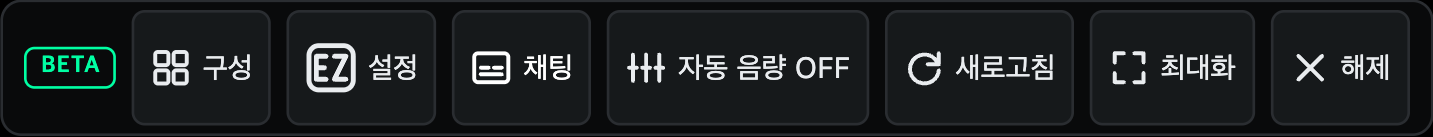
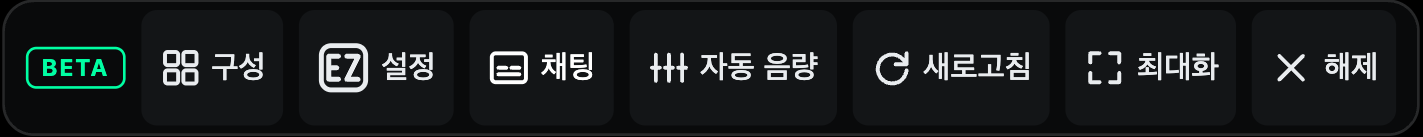
style: unify extension surfaces and interaction states

diff --git a/src/ui/Sheet.tsx b/src/ui/Sheet.tsx
@@ -18,7 +18,7 @@
 
 import { useEffect, useRef, type ReactNode } from 'react';
 import { BETA_BADGE_TEXT, OURS } from '../constants/class';
-import { BG, BORDER, FG, RADIUS, ACCENT, FONT_FAMILY } from './tokens';
+import { BG, BORDER, FG, RADIUS, ACCENT, FONT_FAMILY, UI_STATE } from './tokens';
 import { CloseIcon } from './icons';
 
 export const SHEET_MAX_W = 920;
@@ -181,9 +181,9 @@ export const SHEET_CSS = `
   display: flex;
   flex-direction: column;
   background: ${BG.floating};
-  border: 1px solid ${BORDER.subtle};
-  border-radius: ${RADIUS.md};
-  box-shadow: 0 12px 40px ${BG.scrim};
+  border: 1px solid ${UI_STATE.border};
+  border-radius: ${RADIUS.lg};
+  box-shadow: 0 16px 48px ${BG.scrim};
   overflow: hidden;
 }
 /*
@@ -307,7 +307,7 @@ export const SHEET_CSS = `
   color: ${FG.body};
   cursor: pointer;
 }
-.cm-sheet__btn--primary { border-color: ${ACCENT}; color: ${ACCENT}; }
+.cm-sheet__btn--primary { border-color: ${UI_STATE.selectedBorder}; background: ${UI_STATE.selected}; color: ${ACCENT}; }
 .cm-sheet__btn:disabled { opacity: 0.35; cursor: default; }
 .cm-sheet__note { margin: 4px 0 0; font-size: 11px; color: ${FG.muted}; }
 .cm-sheet__warn { margin: 4px 0 0; font-size: 11px; color: #ffb454; }
@@ -317,6 +317,24 @@ export const SHEET_CSS = `
   justify-content: space-between;
   gap: 10px;
   padding: 5px 0;
+}
+.cm-sheet button, .cm-sheet input, .cm-sheet select { font-family: inherit; }
+.cm-sheet select, .cm-sheet input:is([type='text'], [type='number']) {
+  background: ${BG.raised}; color: ${FG.body};
+  border: 1px solid ${UI_STATE.border}; border-radius: ${RADIUS.sm};
+  padding: 4px 8px;
+}
+.cm-sheet input { accent-color: ${ACCENT}; }
+.cm-sheet { color-scheme: dark; scrollbar-color: #ffffff40 transparent; scrollbar-width: thin; }
+.cm-sheet :is(button, input, select, textarea, a):focus-visible {
+  outline: 2px solid ${ACCENT}; outline-offset: 2px;
+}
+.cm-sheet__btn, .cm-sheet__close { transition: background-color 140ms ease; }
+@media (hover: hover) {
+  .cm-sheet__btn:not(:disabled):hover, .cm-sheet__close:hover { background: ${UI_STATE.hover}; }
+}
+@media (prefers-reduced-motion: reduce) {
+  .cm-sheet *, .cm-sheet *::before, .cm-sheet *::after { transition: none !important; }
 }
 /* 커버 화면과 회전한 폴드에서도 바깥 여백보다 조작 공간을 우선한다. */
 @media (pointer: coarse) and (max-width: 1000px) {

diff --git a/src/settingsPanel/settingsPanelCss.ts b/src/settingsPanel/settingsPanelCss.ts
@@ -5,7 +5,7 @@
  * `.css` 파일이 아니라 문자열 모듈인 이유: content script 는 `upsertStyle` 로 스타일을 주입하며
  * (`SHEET_CSS` 와 동일한 방식), 별도 CSS 파일은 확장 번들에서 자동으로 페이지에 붙지 않는다.
  */
-import { BG, BORDER, FG, OVERLAY, RADIUS, ACCENT } from '../ui/tokens';
+import { BG, BORDER, FG, OVERLAY, RADIUS, ACCENT, UI_STATE } from '../ui/tokens';
 
 export const SETTINGS_PANEL_CSS = `
 .cm-sheet:has(.cm-sp) .cm-sheet__foot { flex-wrap: wrap; }
@@ -33,7 +33,7 @@ export const SETTINGS_PANEL_CSS = `
 }
 .cm-sp input[type='color'] { min-width: 44px; min-height: 44px; }
 .cm-sp input[type='range'] { max-width: 40vw; min-height: 44px; }
-.cm-sp { display: flex; gap: 14px; align-items: flex-start; }
+.cm-sp { display: flex; gap: 20px; align-items: flex-start; }
 .cm-sp__rail {
   display: flex;
   flex-direction: column;
@@ -41,9 +41,9 @@ export const SETTINGS_PANEL_CSS = `
   flex: 0 0 auto;
   min-width: 104px;
   padding: 4px;
-  border: 1px solid ${BORDER.subtle};
+  border: 1px solid ${UI_STATE.border};
   border-radius: ${RADIUS.md};
-  background: ${BG.raised};
+  background: ${BG.base};
 }
 .cm-sp__tab {
   min-height: var(--cm-target, 32px);
@@ -57,9 +57,13 @@ export const SETTINGS_PANEL_CSS = `
   text-align: left;
   cursor: pointer;
 }
-.cm-sp__tab[aria-selected='true'] { background: ${BG.raised}; color: ${ACCENT}; font-weight: 700; }
+.cm-sp__tab { transition: background-color 140ms ease; }
+.cm-sp__tab[aria-selected='true'] { background: ${UI_STATE.selected}; color: ${ACCENT}; font-weight: 700; box-shadow: inset 0 0 0 1px ${UI_STATE.selectedBorder}; }
+@media (hover: hover) {
+  .cm-sp__tab:not([aria-selected='true']):hover { background: ${UI_STATE.hover}; }
+}
 .cm-sp__panel { flex: 1 1 auto; min-width: 0; }
-.cm-sp__panel h3 { margin: 12px 0 4px; font-size: 12px; color: ${FG.muted}; }
+.cm-sp__panel h3 { margin: 20px 0 8px; font-size: 12px; color: ${FG.muted}; }
 .cm-sp__controls { display: flex; align-items: center; gap: 6px; flex-wrap: wrap; }
 .cm-sp__controls label { display: inline-flex; align-items: center; gap: 4px; }
 .cm-sp__list { list-style: none; margin: 4px 0; padding: 0; }

diff --git a/src/features/multiView/stage.ts b/src/features/multiView/stage.ts
@@ -11,6 +11,7 @@
  */
 
 import { createIconElement } from '../../ui/icons';
+import { ACCENT, FONT_FAMILY, RADIUS, UI_STATE } from '../../ui/tokens';
 import { BETA_BADGE_TEXT, OURS } from '../../constants/class';
 import type { MultiViewSlot, Settings, SlotIndex, SlotLines } from '../../constants/storage';
 import type { DeviceDecision } from '../../device';
@@ -316,8 +317,10 @@ export function buildStageCss(touchTargetPx: number, alwaysShowHeader: boolean):
   gap: 6px;
   padding: 3px 8px;
   background: #16181bbf;
-  border: 1px solid #2a2d31;
-  border-radius: 8px;
+  border: 1px solid ${UI_STATE.border};
+  border-radius: ${RADIUS.lg};
+  font-family: ${FONT_FAMILY};
+  box-shadow: 0 4px 16px #0003;
   z-index: 3;
 }
 /*
@@ -349,14 +352,32 @@ export function buildStageCss(touchTargetPx: number, alwaysShowHeader: boolean):
   min-width: ${touchTargetPx}px;
   min-height: ${touchTargetPx}px;
   padding: 0 6px;
-  border: 1px solid #2a2d31;
-  border-radius: 5px;
-  background: #1c1f22b3;
+  border: 1px solid transparent;
+  border-radius: ${RADIUS.sm};
+  background: #1c1f2280;
+  font: inherit;
+  transition: background-color 140ms ease, border-color 140ms ease;
   color: #e9ecef;
   cursor: pointer;
 }
+#${OURS.multiViewStageId} .cm-stage-bar button[aria-pressed='true'] {
+  background: ${UI_STATE.selected};
+  border-color: ${UI_STATE.selectedBorder};
+}
+#${OURS.multiViewStageId} .cm-stage-bar button:focus-visible {
+  outline: 2px solid ${ACCENT}; outline-offset: 2px;
+}
+@media (hover: hover) {
+  #${OURS.multiViewStageId} .cm-stage-bar button:hover {
+    background: ${UI_STATE.hover}; border-color: ${UI_STATE.border};
+  }
+}
+@media (prefers-reduced-motion: reduce) {
+  #${OURS.multiViewStageId} .cm-stage-bar button { transition: none; }
+}
 #${OURS.multiViewStageId} .cm-stage-bar__label {
-  font-size: 11px;
+  font-size: 12px;
+  font-weight: 500;
   white-space: nowrap;
 }
 #${OURS.multiViewStageId} .cm-stage-bar output { min-width: 40px; text-align: center; }

diff --git a/src/popup/popup.css b/src/popup/popup.css
@@ -6,7 +6,7 @@
   --cm-fg-strong: var(--color-content-01, #ffffff);
   --cm-fg: var(--color-content-02, #dfe2ea);
   --cm-muted: var(--color-content-04, #9da5b6);
-  --cm-border: var(--color-bg-layer-05, #24272b);
+  --cm-border: rgba(255, 255, 255, 0.12);
   --cm-radius-xs: var(--sem-radius-xs, 4px);
   --cm-radius-sm: var(--sem-radius-sm, 6px);
   --cm-radius-md: var(--sem-radius-md, 8px);
@@ -55,7 +55,7 @@ body {
   display: flex;
   flex-direction: column;
   height: 100%;
-  padding: 12px 14px 0;
+  padding: 16px 16px 0;
 }
 
 .cm-popup__body {
@@ -87,7 +87,7 @@ body {
 }
 
 .cm-section {
-  padding: 10px 0;
+  padding: 14px 0;
   border-top: 1px solid var(--cm-border);
 }
 
@@ -106,6 +106,11 @@ body {
   display: grid;
   grid-template-columns: 1fr 1fr;
   gap: 6px 10px;
+}
+
+.cm-toggle-grid > .cm-label:has(select) {
+  grid-column: 1 / -1;
+  justify-content: space-between;
 }
 
 .cm-row {
@@ -191,7 +196,8 @@ body {
 }
 
 .cm-btn--primary {
-  border-color: var(--cm-accent);
+  border-color: rgba(0, 255, 163, 0.32);
+  background: rgba(0, 255, 163, 0.1);
   color: var(--cm-accent);
 }
 
@@ -226,4 +232,32 @@ input[type='text'] {
   color: var(--cm-muted);
   line-height: 1.5;
   text-align: center;
+}
+
+button,
+select,
+input {
+  font-family: inherit;
+}
+input {
+  accent-color: var(--cm-accent);
+}
+button {
+  transition:
+    background-color 140ms ease,
+    border-color 140ms ease;
+}
+:is(button, input, select, a):focus-visible {
+  outline: 2px solid var(--cm-accent);
+  outline-offset: 2px;
+}
+@media (hover: hover) {
+  button:not(:disabled):hover {
+    background: rgba(255, 255, 255, 0.08);
+  }
+}
+@media (prefers-reduced-motion: reduce) {
+  button {
+    transition: none;
+  }
 }

diff --git a/src/features/controlBar.ts b/src/features/controlBar.ts
@@ -19,6 +19,7 @@ import { BETA_BADGE_TEXT, OURS, PLAYER } from '../constants/class';
 import { qs, upsertStyle } from '../utils/dom';
 import { keepMounted, type Disposer } from '../utils/observe';
 import { createIconElement, type IconName } from '../ui/icons';
+import { ACCENT, RADIUS, UI_STATE } from '../ui/tokens';
 
 /** 네이티브 버튼 크기 (실측 고정값) */
 export const NATIVE_BUTTON_PX = 36;
@@ -46,7 +47,15 @@ const AUTO_HIDE_STYLE_ID = 'cm-controlbar-autohide-style';
  * 줄을 바꿔 **모든 버튼이 화면 안에 남게** 한다. 잘라내지 않는다 — 조작 요소는 도달 가능해야 한다.
  */
 export const CONTROL_BAR_AUTO_HIDE_CSS = `
-.${CONTROL_ITEM_CLASS} { transition: opacity 200ms; }
+.${CONTROL_ITEM_CLASS} { transition: opacity 200ms, background-color 140ms ease; border-radius: ${RADIUS.sm}; }
+.${CONTROL_ITEM_CLASS}[aria-pressed='true'] { background: ${UI_STATE.selected} !important; }
+.${CONTROL_ITEM_CLASS}:focus-visible { outline: 2px solid ${ACCENT}; outline-offset: 2px; }
+@media (hover: hover) {
+  .${CONTROL_ITEM_CLASS}:hover { background: ${UI_STATE.hover} !important; }
+}
+@media (prefers-reduced-motion: reduce) {
+  .${CONTROL_ITEM_CLASS} { transition: none; }
+}
 .pzp-pc:not(.pzp-pc--controls) .${CONTROL_ITEM_CLASS} {
   opacity: 0 !important;
   pointer-events: none !important;

diff --git a/src/ui/tokens.ts b/src/ui/tokens.ts
@@ -97,3 +97,11 @@ export const ACCENT = '#00ffa3';
  */
 export const FONT_FAMILY =
   '-apple-system, system-ui, "Malgun Gothic", "맑은 고딕", Helvetica, Arial, sans-serif';
+
+/** 확장 UI 공통 상태. 영상 위에서도 과한 강조 없이 조작 상태를 구별한다. */
+export const UI_STATE = {
+  border: 'rgba(255, 255, 255, 0.12)',
+  hover: 'rgba(255, 255, 255, 0.08)',
+  selected: 'rgba(0, 255, 163, 0.1)',
+  selectedBorder: 'rgba(0, 255, 163, 0.32)',
+} as const;

diff --git a/screenshots/design-tone.md b/screenshots/design-tone.md
@@ -1,0 +1,25 @@
+# 확장 UI 톤 정리
+
+어두운 중립색 표면에 민트색 활성 표시를 사용한다. 설정 창·멀티뷰 바·싱글뷰 컨트롤·확장 팝업에 같은 테두리 강도와 선택·호버·키보드 포커스 규칙을 적용했다.
+
+- 멀티뷰 바: 버튼마다 보이던 테두리를 줄이고 글자 크기와 굵기를 통일했다. 활성 토글은 민트색 텍스트와 옅은 배경·테두리로 구별한다.
+- 설정 창: 탭 레일과 본문을 분리하고 선택한 탭에 민트색 배경과 테두리를 넣었다. 입력창의 배경·테두리·모서리와 섹션 간격을 정리했다.
+- 싱글뷰: 활성 채팅 버튼 배경과 키보드 포커스를 표시한다.
+- 팝업: 섹션 간격과 주요 버튼의 강조색을 설정 창과 맞췄다.
+- 호버 효과는 마우스를 지원하는 환경에만 적용한다. 동작 줄이기 설정에서는 새 전환 효과를 끈다.
+
+## 화면
+
+![설정 데스크톱](demo-design-settings-desktop.png)
+
+![설정 모바일](demo-design-settings-mobile.png)
+
+![설정 모바일 가로](demo-design-settings-landscape.png)
+
+![멀티뷰](demo-multiview-settings-icon.png)
+
+![확장 팝업](demo-design-popup.png)
+
+## 검증 범위
+
+Chromium에서 공개 생방송을 열어 싱글뷰·멀티뷰 버튼과 설정 열기를 확인했다. 설정 창은 1440×900, 411×915, 915×412에서 모든 탭을 전환하고 대화상자가 화면 안에 있는지 확인했다. 키보드 포커스 표시와 411px 멀티뷰 버튼의 44px 터치 영역도 확인했다. 실물 폴드 기기 검증은 포함하지 않는다.
